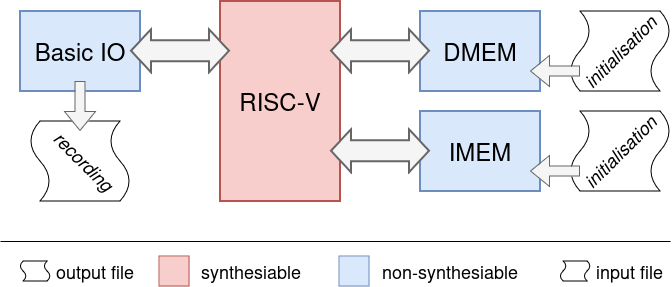
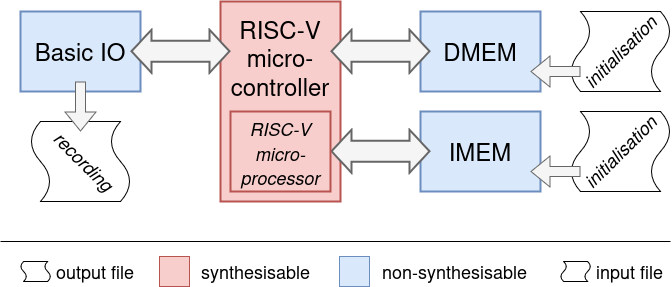
continue CH1

diff --git a/content/10_compiling/14_simulation.md b/content/10_compiling/14_simulation.md
@@ -3,10 +3,9 @@ title: '4 - Simulation'
 weight: 14
 ---
 
-In this course you will have to work both on the hardware and on the software. To facilitate this kind of designing, it will be useful to run simulation as smooth as possible. 
+In this course you will have to work both on the hardware and on the software. To facilitate this kind of designing and developing, it will be invaluable to run simulation as smooth as possible. Before jumping to the testbench, it might useful to briefly refresh the concept of **synthesisable** hardware.
 
-Before jumping to the testbench, it might useful to briefly refresh the concept of **synthesisable** hardware.
-
+## Synthesisable HDL
 
 All hardware description languages (HDLs) have a lingo that is used to **describe** a hardware design. Typically, these HDLs also have parts of their language dedicated to verification. The parts of the HDL that describe components that can be *made* are the synthesisable subset of that language. 
 
@@ -19,7 +18,7 @@ z <= x when y = '0' else '0';
 {{% /column %}}
 
 {{% column %}}
-Example of non-synthesiable code:
+Example of non-synthesisable code:
 ```vhdl
 process (y, x)
 begin
@@ -69,11 +68,29 @@ With this description of the model (and the earlier C-example for printing), it 
 {{% /column %}}
 {{% /multiHcolumn %}}
 
-The testbench that will be used in this course will start with a description like shown below.
+## The testbench
+
+The testbench that will be used in this course will start with a description of the architecture shown below.
+
 
 ![sim_design](/img/10/sim_design.png)
 
-With the testbench set up like shown above, a (relatively) fast way of developing-and-testing is facilitated.
+{{% multiHcolumn %}}
+{{% column %}}
+#### RISC-V
+At the heart of the implementation sits the RISC-V **microprocessor**. This is the processor that you have been working on in an earlier class (COMAR). This processor is used to make a **microcontroller** that can also be seen as a System-on-Chip.
+{{% /column %}}
+{{% column %}}
+#### MEM models
+Two instantiations of a memory model are added. One will serve as the data memory (**DMEM**) and the other as the instruction memory (**IMEM**). The model that is used allows *initialisation* of the memory through a text file.
+{{% /column %}}
+{{% column %}}
+#### BASIC IO
+The third component is again a model that facilitates basic IO. For now, however, only Output is facilitated. It will give the student a way to communicate from the microcontroller to the outside world.
+{{% /column %}}
+{{% /multiHcolumn %}}
+
+<!-- With the testbench set up like this, a (relatively) fast way of developing-and-testing is facilitated.  -->
 
 {{% notice tip %}}
 In case you are using Vivado to simulate your design, testing a new version of the firmware is easy. Simply **restart** the simulation, as in: hit the Restart button. When you also make modifications to your hardware design, you have to **relauch** te simulation. The latter takes more time than restarting.
@@ -81,7 +98,7 @@ In case you are using Vivado to simulate your design, testing a new version of t
 
 ## The proposed approach for developing and testing
 
-Working in an organised way might look cumbersome, but it will definetly pay of on the long(er) run. The remainder of this section describes *one* way of working.
+Working in an organised way might look cumbersome, but it will definetly pay of on the long(er) run. The remainder of this section describes the recommended way of working.
 
 {{% multiHcolumn %}}
 {{% column %}}
@@ -90,20 +107,19 @@ Working in an organised way might look cumbersome, but it will definetly pay of 
 {{% column %}}
 #### It all starts on the filesystem
 
-The code that you will be writing can ultimately be seen as *as bunch of files*. It is recommended that you stick to a certain organisation. As with many things that will follow (in this course, or in 'live'), this might require an investment, but you will reap the fruits of this later and multiple times.
+The code that you will be writing can ultimately be seen as *as bunch of files*. It is recommended that you stick to a fixed organisation. As with many things that will follow (in this course, or in 'live'), this might require an investment, but you will reap the fruits of this labour later and multiple times.
 
-This image shows a way of organising:
+This image shows a way of organising the files:
 
 * **project name**: this folder is simply the name of the project, or the exercise that you are working on;
-* **doc**: it makes sense (as you undoubtedly know) to keep some documentation. This can be in the form of markdown files, for example;
-* **firmware**: The folder that hold everything that has to do with *software*
-    * **build**: an empty folder that will be used store intermediate files (e.g. object files)
+* **doc**: it makes sense (as you undoubtedly know) to keep some documentation. This can be in the form of markdown files, for example.
+* **firmware**: The folder that holds everything that has to do with *software*
+    * **build**: an empty folder that will be used store intermediate files
     * **src**: a folder for the .h and .c files
     * Makefile: ... well, this is the Makefile for your .elf
 * **hdl**: a folder for the hardware description files
     * **tb**: a folder for the non-synthesisable code
-        * .vhd: non-synthesisable .vhd files
-    * .vhd: synthesisable .vhd files
+    * .v(hd): synthesisable hdl files
 * **scripts**: a folder for scripts
     * **python**: python tools
     * **tcl**: project generation scripts

diff --git a/content/10_compiling/11_programming.md b/content/10_compiling/11_programming.md
@@ -71,4 +71,4 @@ The output of this program can be seen here:
 {{% /column %}}
 {{% /multiHcolumn %}}
 
-Before your implementation of the RISC-V core is capable of running this **very simple** code, there is still some work left. The remainder of this chapter will cover *'all you need to know'*. 
+Before your implementation of the RISC-V core is capable of running this very simple code, there is still some work left. The remainder of this chapter will cover *'all you need to know'*. 
